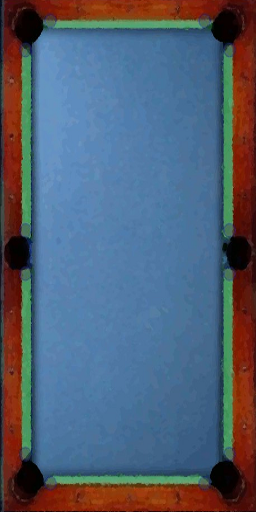
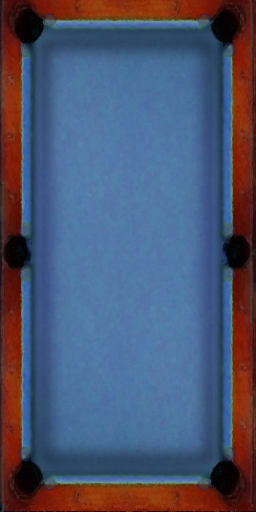
start aiming

diff --git a/Test3D/src/a/b/c/client/BilliardsViewImpl.java b/Test3D/src/a/b/c/client/BilliardsViewImpl.java
@@ -2,6 +2,8 @@ package a.b.c.client;
 
 import static gwt.g3d.client.math.MatrixStack.MODELVIEW;
 
+import gwt.g3d.client.Surface3D;
+
 import java.util.ArrayList;
 import java.util.List;
 
@@ -17,11 +19,25 @@ import com.google.gwt.event.dom.client.MouseMoveEvent;
 import com.google.gwt.event.dom.client.MouseMoveHandler;
 import com.google.gwt.event.dom.client.MouseUpEvent;
 import com.google.gwt.event.dom.client.MouseUpHandler;
+import com.google.gwt.event.shared.HandlerRegistration;
 
 public class BilliardsViewImpl extends Render implements 
 MouseDownHandler, MouseUpHandler, MouseMoveHandler {
 
+	/** Mouse handler registration */
+	private HandlerRegistration mouseDownRegistration, mouseUpRegistration,
+			mouseMoveRegistration;
 
+	double angle = 0;
+	
+	public BilliardsViewImpl(Surface3D surface)
+	{
+		mouseDownRegistration = surface.addMouseDownHandler(this);
+		mouseUpRegistration = surface.addMouseUpHandler(this);
+		mouseMoveRegistration = surface.addMouseMoveHandler(this);		
+	}
+
+	
 	public void showTable(Table table) {
 		plotAtTime(table, 0);
 	}
@@ -35,19 +51,22 @@ MouseDownHandler, MouseUpHandler, MouseMoveHandler {
 
 		prepareDraw();
 
+				setView((float) (Math.sin(angle) * 40.0),
+						(float) (Math.cos(angle) * 40.0));
+
 		MODELVIEW.push();
 
 		for (Event event : events)
 			plotBall(event);
 
 		placeTable();
-				placeCue(0,0);
+				
+		placeCue(0,0,angle,Math.sin(t*3));
+
 
 		MODELVIEW.pop();
 
 
-		setView((float) (Math.sin(t / 3) * 65.0),
-				(float) (Math.cos(t / 3) * 50.0));
 	}
 
 	private void plotBall(Event event) {
@@ -60,19 +79,18 @@ MouseDownHandler, MouseUpHandler, MouseMoveHandler {
 
 	@Override
 	public void onMouseMove(MouseMoveEvent event) {
-		// TODO Auto-generated method stub
+		angle = ((double)event.getX() / 500.0)*2.0*Math.PI;
 		
 	}
 
 	@Override
 	public void onMouseUp(MouseUpEvent event) {
-		// TODO Auto-generated method stub
 		
 	}
 
 	@Override
 	public void onMouseDown(MouseDownEvent event) {
-		// TODO Auto-generated method stub
+		
 		
 	}
 }

diff --git a/Test3D/src/a/b/c/client/Render.java b/Test3D/src/a/b/c/client/Render.java
@@ -56,31 +56,34 @@ public class Render extends Assets {
 		MODELVIEW.pop();		
 	}
 
-	protected void placeCue(double x, double y)
+	protected void placeCue(double x, double y,double angle, double thrust)
 	{
 		if (cueTexture != null) {
 			cueTexture.bind();
 		}
 		MODELVIEW.push();
 		MODELVIEW.translate((float) -x, (float) -y, 0f);
+		MODELVIEW.rotateZ((float)(-angle + Math.PI));
+		MODELVIEW.translate(0f,(float)thrust,0f);		
 		MODELVIEW.scale(1, 1, 1);
-//		MODELVIEW.rotateX((float)Math.PI/2);
 		setMatrixUniforms();
 		cueMesh.draw();
 		MODELVIEW.pop();		
 		
-		placeCueShadow(x, y);
+		//placeCueShadow(x, y, angle);
 	}
 
-	protected void placeCueShadow(double x, double y)
+	protected void placeCueShadow(double x, double y, double angle)
 	{
 		if (shadowTexture != null) {
 			shadowTexture.bind();
 		}
 		MODELVIEW.push();
 		MODELVIEW.translate((float) -x, (float) -y - 24f, -0.99f);
+		MODELVIEW.rotateZ((float)(-angle + Math.PI));
 		MODELVIEW.scale(0.25f, 20, 1);
 		MODELVIEW.rotateX((float)Math.PI/2);
+
 		setMatrixUniforms();
 		cueShadowMesh.draw();
 		MODELVIEW.pop();		

diff --git a/Test3D/src/a/b/c/client/Assets.java b/Test3D/src/a/b/c/client/Assets.java
@@ -115,9 +115,9 @@ public class Assets implements GLDisposable {
 
 		gl.uniform1i(shader.getUniformLocation("uUseLighting"), 1);
 		gl.uniform(shader.getUniformLocation("uAmbientColor"), new Vector3f(
-				0.3f, 0.3f, 0.3f));
+				0.4f, 0.4f, 0.4f));
 		gl.uniform(shader.getUniformLocation("uPointLightingLocation"),
-				new Vector3f(0.1f, 1.0f, 30.0f));
+				new Vector3f(0.0f, 0.0f, 50.0f));
 		gl.uniform(shader.getUniformLocation("uPointLightingColor"),
 				new Vector3f(1.0f, 1.0f, 1.0f));
 

diff --git a/Test3D/src/a/b/c/client/Test3D.java b/Test3D/src/a/b/c/client/Test3D.java
@@ -61,7 +61,7 @@ public class Test3D implements EntryPoint {
 	 * Initializes and runs the demo.
 	 */
 	private void runDemo(final GL2 gl) {
-		final BilliardsViewImpl demo = new BilliardsViewImpl();
+		final BilliardsViewImpl demo = new BilliardsViewImpl(surface);
 		
 		demo.init(gl);
 
